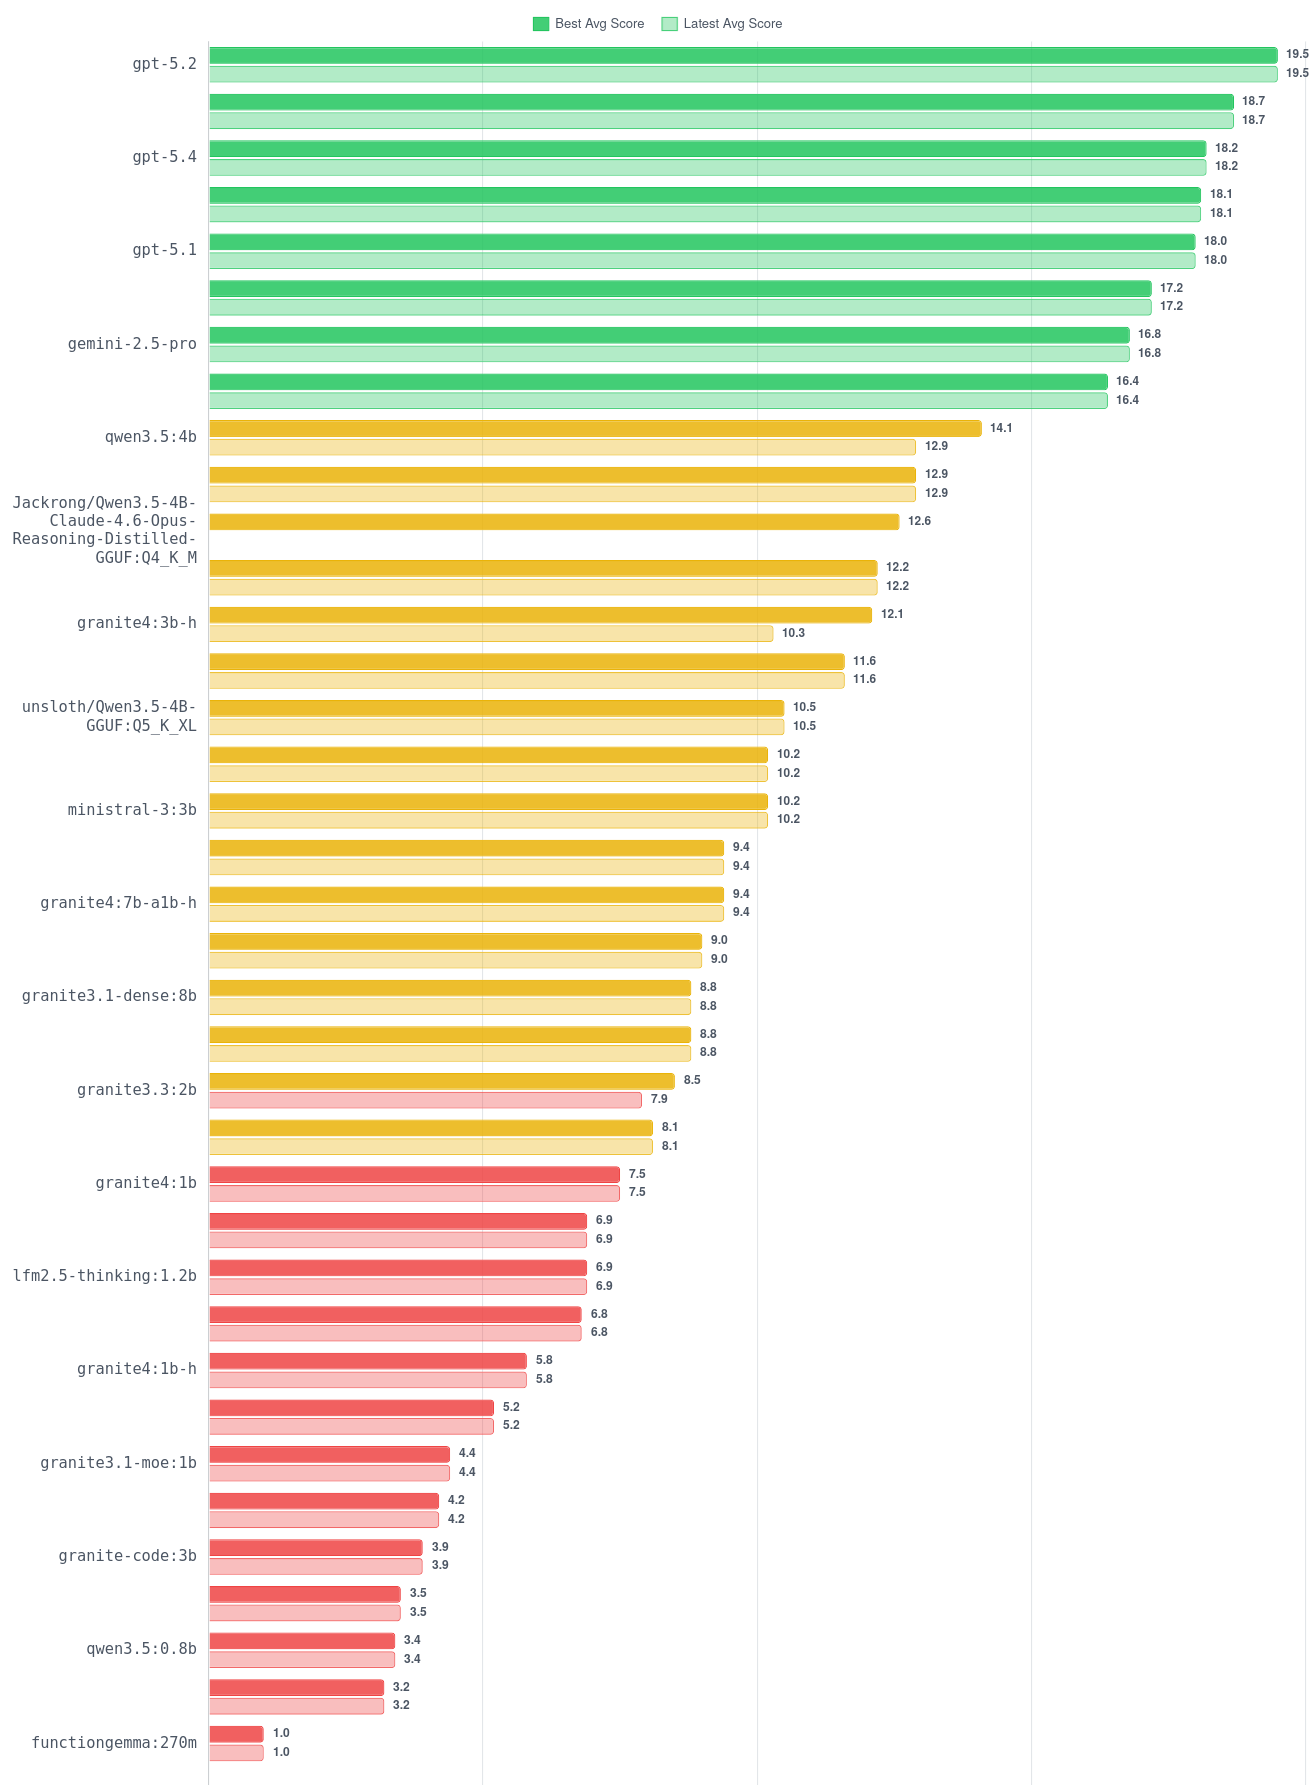
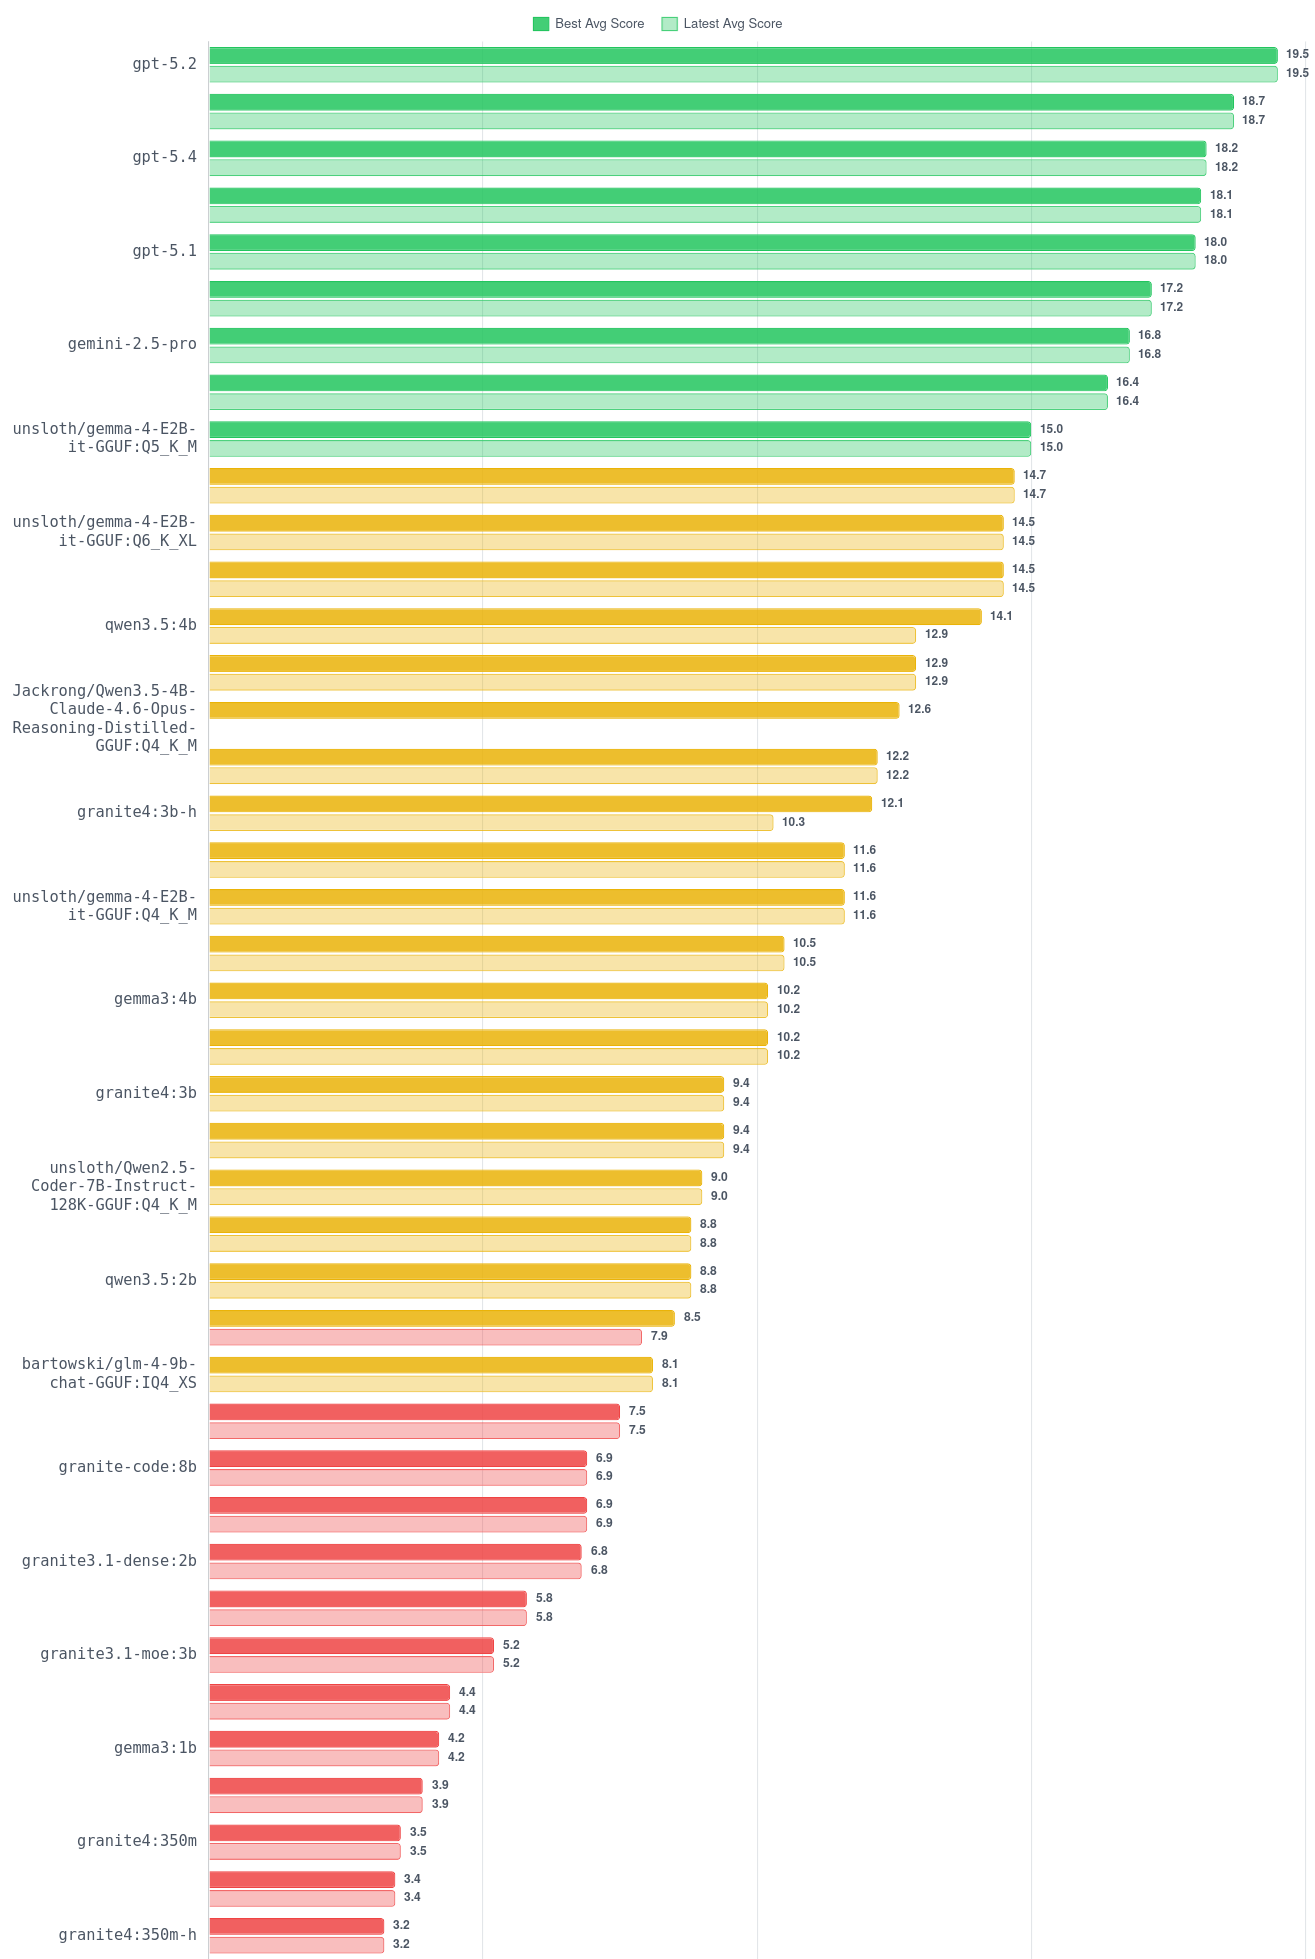
docs: updated leaderboard with latest gemma4 runs

diff --git a/README.md b/README.md
@@ -71,6 +71,12 @@ Horizontal bar chart comparing each model's bug-detection accuracy on a 1–20 r
 |                       | unsloth/Qwen2.5-Coder-7B-Instruct-128K-GGUF:Q4_K_M                  |
 |                       | Jackrong/Qwen3.5-4B-Claude-4.6-Opus-Reasoning-Distilled-GGUF:Q4_K_M |
 |                       | bartowski/glm-4-9b-chat-GGUF:IQ4_XS                                 |
+|                       | unsloth/gemma-4-E4B-it-GGUF:Q3_K_S                                  |
+|                       | unsloth/gemma-4-E2B-it-GGUF:Q5_K_M                                  |
+|                       | unsloth/gemma-4-E2B-it-GGUF:Q5_K_XL                                 |
+|                       | unsloth/gemma-4-E2B-it-GGUF:UD-Q5_K_XL                              |
+|                       | unsloth/gemma-4-E2B-it-GGUF:Q6_K_XL                                 |
+|                       | unsloth/gemma-4-E2B-it-GGUF:Q4_K_M                                  |
 
 ## Quick Start
 
